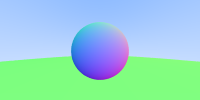
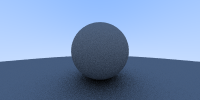
implement matte material

diff --git a/ray.go b/ray.go
@@ -21,8 +21,12 @@ func (r Ray) Pos(t float64) Vec3 {
 // BasicColor is the color function described on page 10
 func BasicColor(r Ray, h Hitter) Vec3 {
 	// find any hits
-	if hit := h.Hit(r, 0, math.MaxFloat64); hit.Valid {
-		return hit.Norm.ScalarAdd(1).ScalarMul(0.5)
+	if hit := h.Hit(r, 0.001, math.MaxFloat64); hit.Valid {
+		diffused := Ray{
+			Origin: hit.Pos,
+			Dir:    hit.Norm.Add(RandomInUnitSphere()),
+		}
+		return BasicColor(diffused, h).ScalarMul(0.5)
 	}
 	// show background
 	t := 0.5 * (r.Dir.Unit().Y() + 1)
@@ -145,6 +149,7 @@ func (w World) Hit(r Ray, tmin, tmax float64) Hit {
 	return closest
 }
 
+// Camera is the users point of view
 type Camera struct {
 	Origin     Vec3
 	BottomLeft Vec3
@@ -152,9 +157,20 @@ type Camera struct {
 	Vertical   Vec3
 }
 
+// Ray returns a ray for the provided u/v coordinates
 func (c Camera) Ray(u, v float64) Ray {
 	return Ray{
 		Origin: c.Origin,
 		Dir:    c.BottomLeft.Add(c.Horizontal.ScalarMul(u)).Add(c.Vertical.ScalarMul(v)).Sub(c.Origin),
+	}
+}
+
+// RandomInUnitSphere doesn't look very efficient
+func RandomInUnitSphere() Vec3 {
+	for {
+		p := Vec3{rand.Float64(), rand.Float64(), rand.Float64()}.ScalarMul(2).ScalarSub(1)
+		if p.SquareLen() < 1 {
+			return p
+		}
 	}
 }
